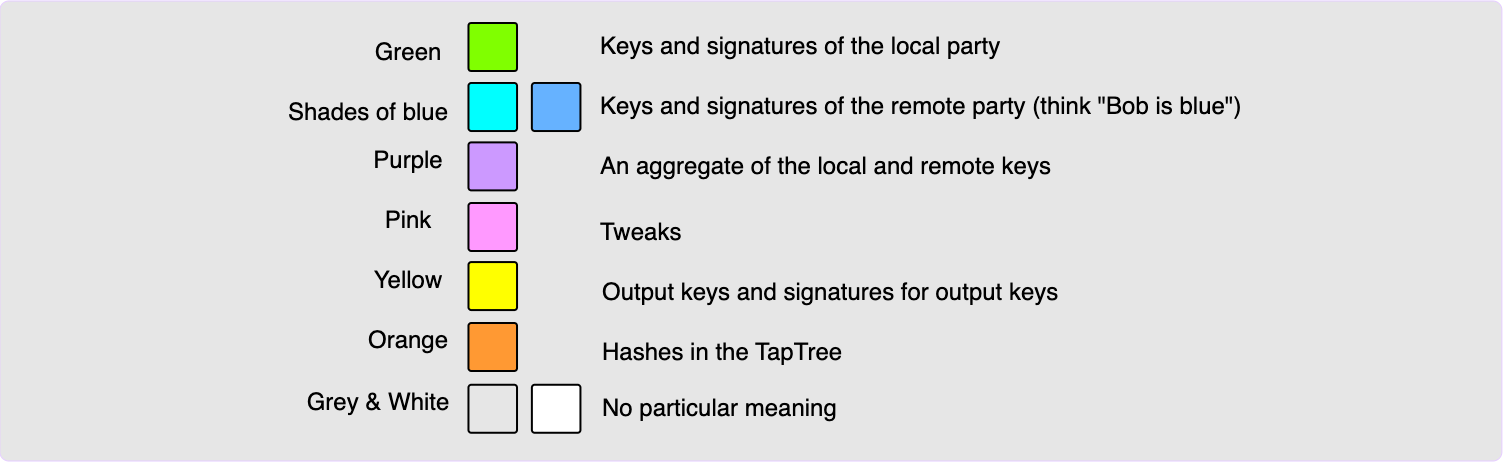
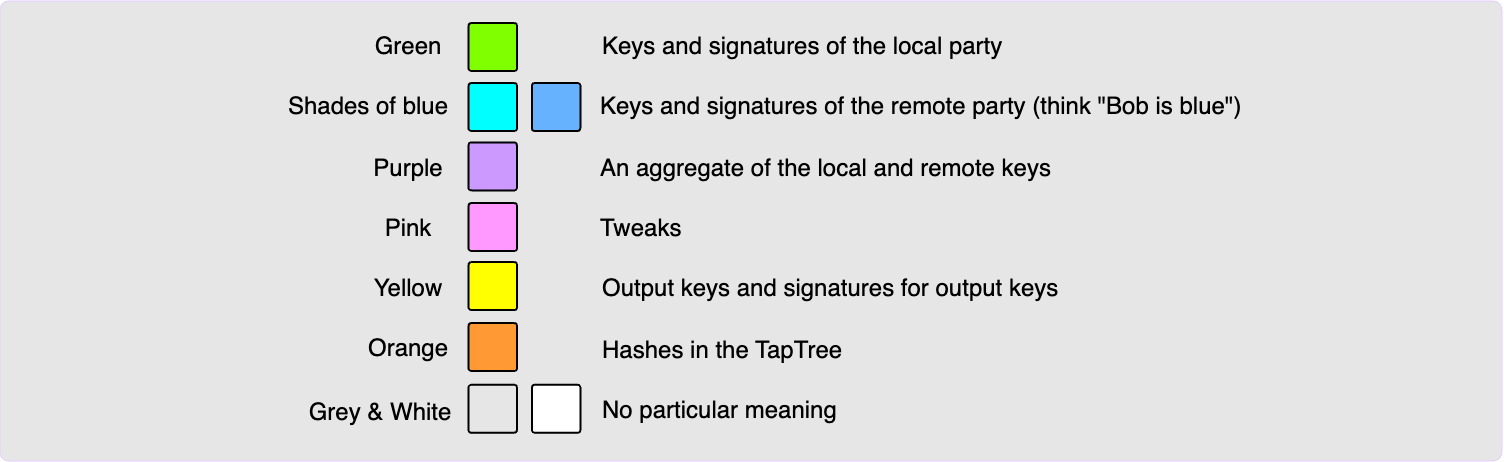
tap-chan-txs: add links & colour legend text

diff --git a/content/drafts/taproot-chan-txs.md b/content/drafts/taproot-chan-txs.md
@@ -2,8 +2,6 @@
 title: "Taproot Channel Transactions"
 summary: "A deep-dive into the structure of Taproot channel transactions"
 date: 2023-04-23
-aliases:
-- /taproot_recap
 
 cover:
     image: "/taprootChanTxs/taproot-chans-cover.png"
@@ -13,21 +11,28 @@ Hold on to your hats folks, things are about to get real.
 
 # Overview
 
-In this post, I will dive into the structure of Taproot-channel funding and
-commitment transactions. If you missed my [previous post](link) about Taproot
-and MuSig2, it might be a good idea to read that one first for a recap of the
-building blocks that will be used throughout this post. If you perhaps also need
-a re-cap of the general structure of commitment transactions then check
-out [this](link) post where I cover why each output in a commitment transaction
-looks the way it does.
+In this post, I will dive into the structure of Taproot channel funding and
+commitment transactions. If you missed my [previous post][taproot-prelims] about
+Taproot and MuSig2, it might be a good idea to read that one first for a recap
+of the building blocks that will be used throughout this post. If you perhaps
+also need a re-cap of the general structure of commitment transactions then
+check out [this][htlc-deep-dive] post where I cover why each output in a
+commitment transaction looks the way it does.
 
 Note that Taproot Channels are still in the design phase and so until
-the [the proposal] by the one and only [Roasbeef] is merged, this blog post will
-be a living document that I will update if any changes are made to the proposal.
-There are currently even a few open questions in the proposal which I will try
-to illustrate here.
+the [proposal][tap-chan-bolt-pr] by the one and only [Roasbeef][roasbeef] is
+merged, this blog post will be a living document that I will update if any
+changes are made to the proposal. There are currently even a few open questions
+in the proposal which I will try to illustrate here.
+
+If you have read some of my previous blog posts, you might have noticed that I
+love to make use of diagrams. Well this post is diagrams on steroids. To help
+with understanding, here is a legend showing what each colour generally 
+represents:
 
 ![](/taprootChanTxs/colour-legend.png#center)
+
+Ok, ready? Let's dive in!
 
 # Funding Transaction Output
 
@@ -35,7 +40,7 @@ Here is a diagram showing how a Taproot-channel funding output is constructed:
 
 ![](/taprootChanTxs/funding-output.png#center)
 
-The two parties in a the channel, the local and remote peer, use the MuSig2
+The two parties in a channel, the local and remote peer, use the MuSig2
 protocol to aggregate their individual funding keys, `P_a` and `P_b`, into the
 aggregate key, `P_agg`, which is also the internal key. This internal key is
 then tweaked with a BIP86 tweak. You might recall from the previous post that a
@@ -323,3 +328,8 @@ confirmed.
 
 The key path and script path spend scripts are exactly the same as for
 the `to_local` output.
+
+[taproot-prelims]: ../../posts/taproot-prelims
+[htlc-deep-dive]: ../../posts/htlc-deep-dive
+[tap-chan-bolt-pr]: https://github.com/lightning/bolts/pull/995
+[roasbeef]: https://twitter.com/roasbeef

diff --git a/content/posts/taproot-prelims.md b/content/posts/taproot-prelims.md
@@ -3,7 +3,7 @@ title: "Taproot and MuSig2 recap"
 summary: "A recap of the building blocks required for Taproot channels"
 date: 2023-04-18
 aliases:
-- /taproot_recap
+  - /taproot_recap
 
 cover:
     image: "/taprootPrelims/cover.png"
